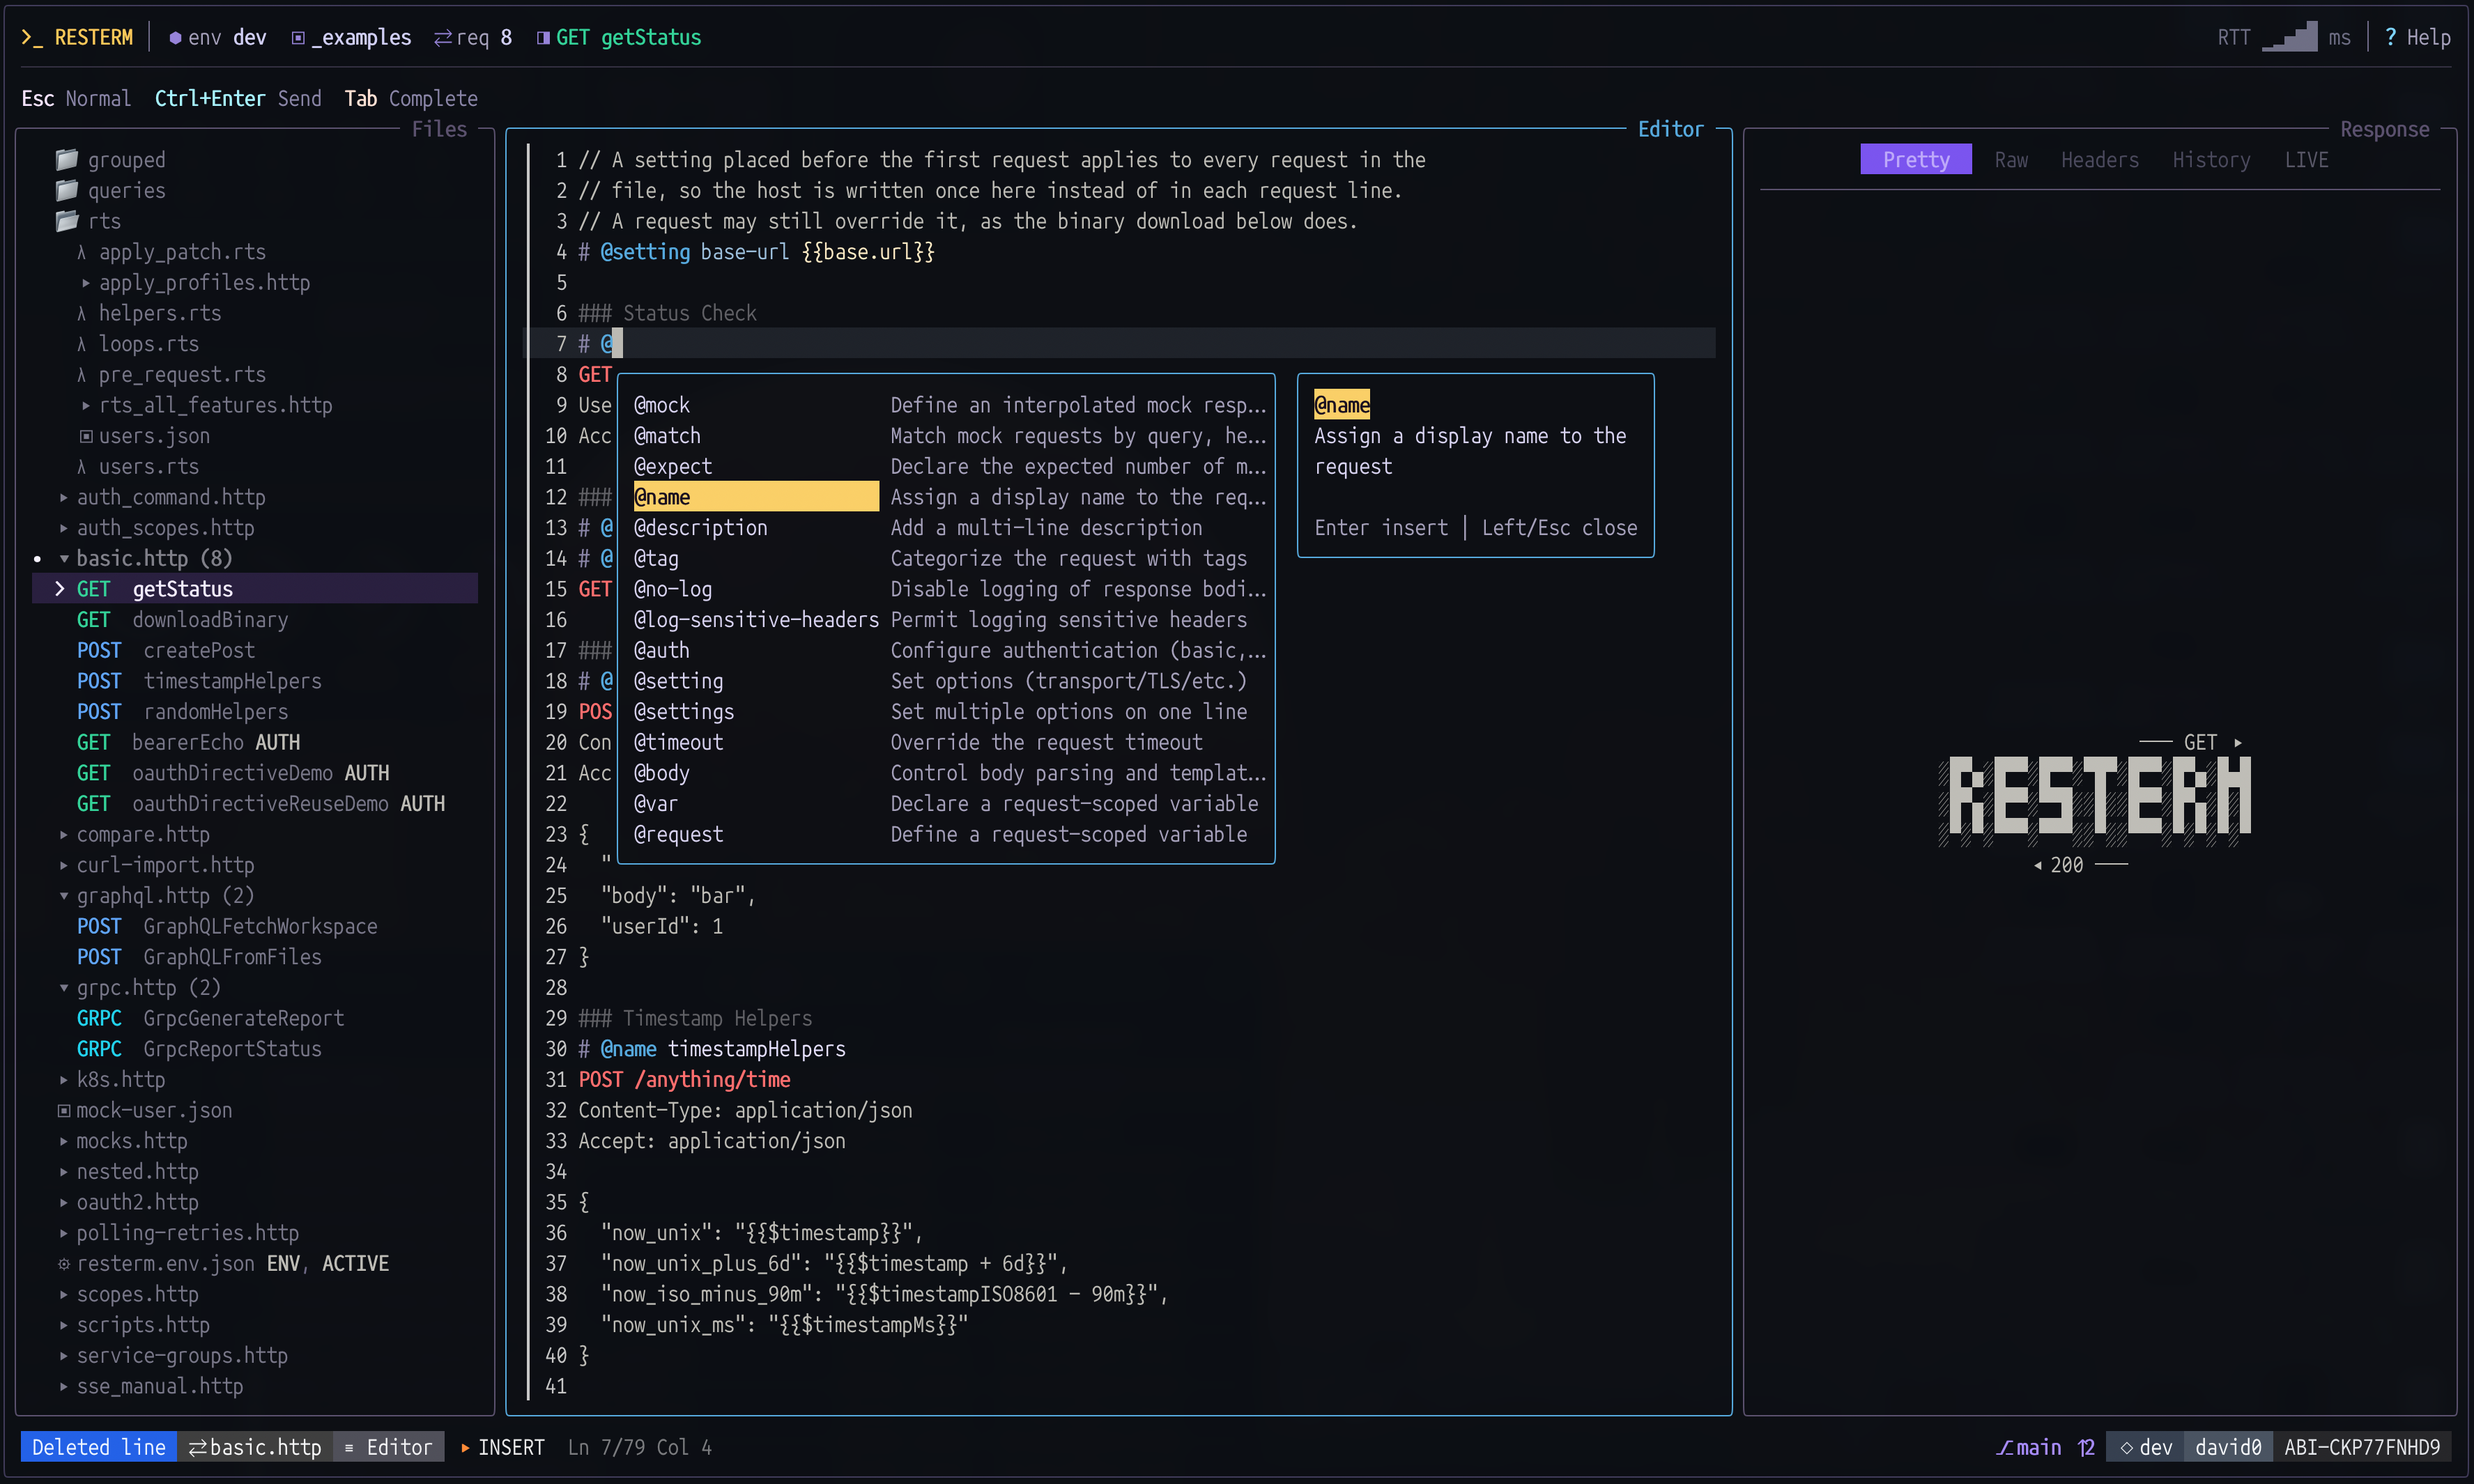
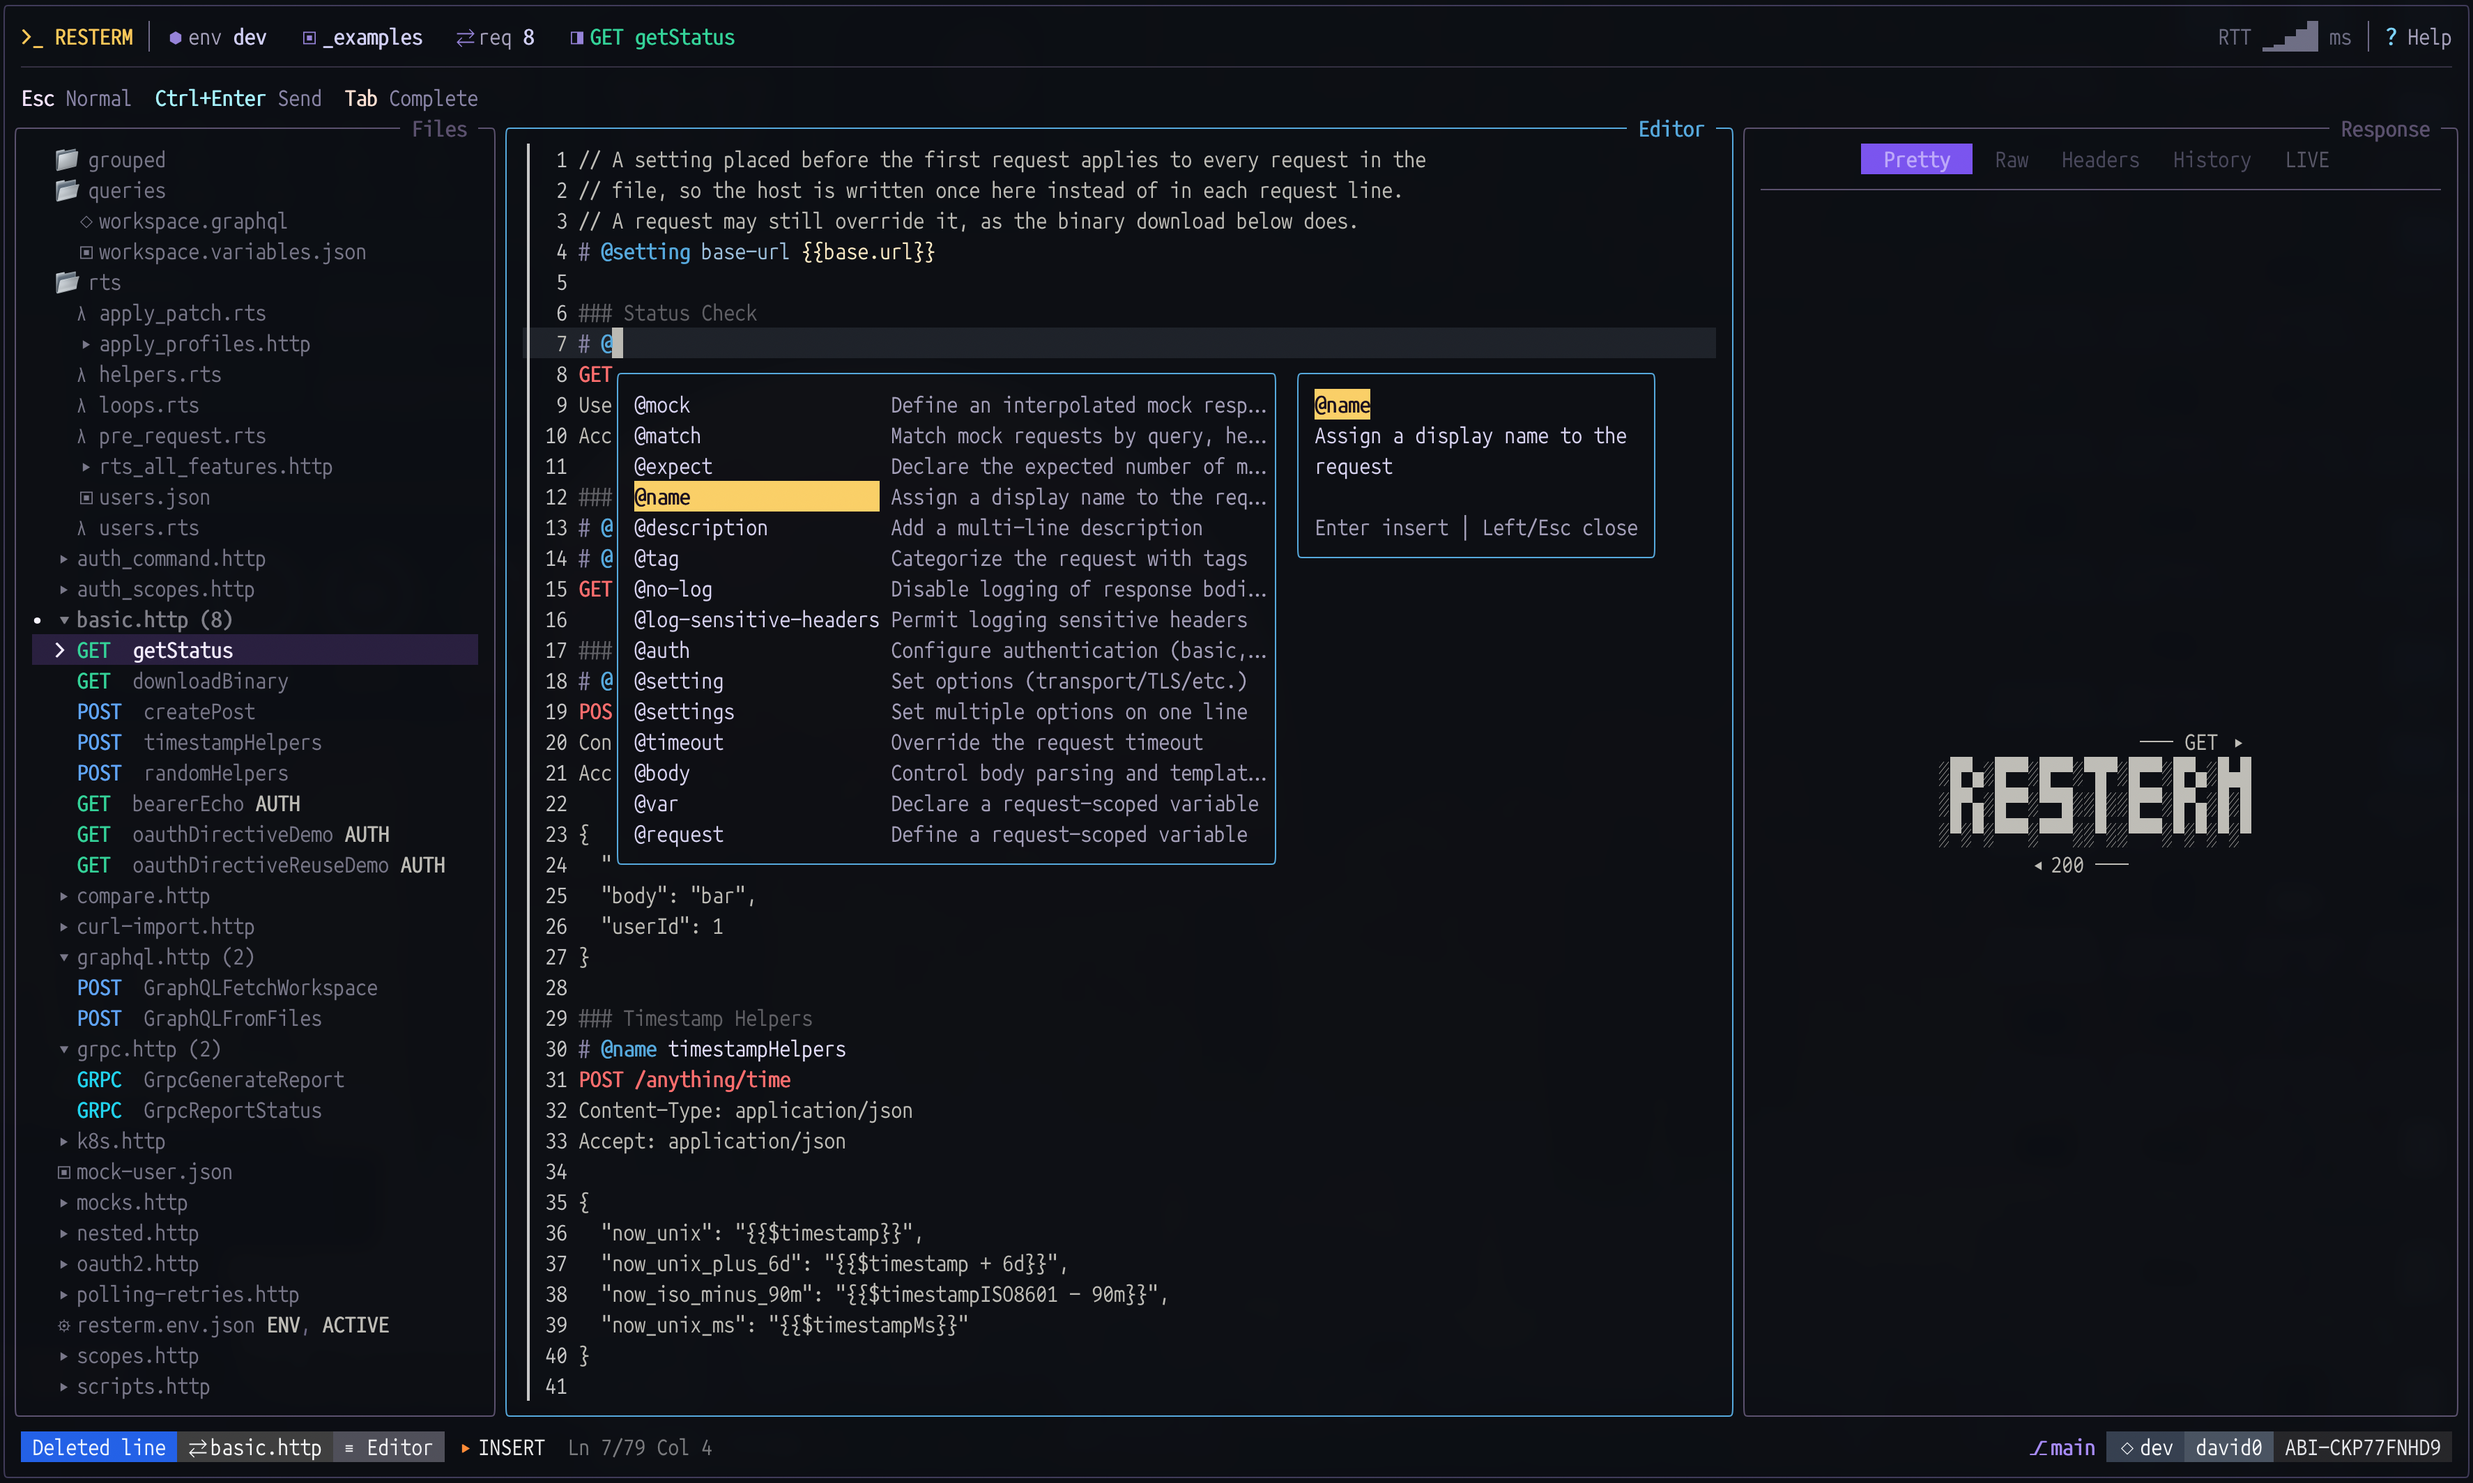
feat: 3 space headers separator

diff --git a/internal/ui/model_render.go b/internal/ui/model_render.go
@@ -40,7 +40,8 @@ const (
 const (
 	headerBrandName = ">_ RESTERM"
 	headerGroupSep  = " │ "
-	headerCellSep   = "  "
+	headerCellSep   = "   "
+	headerMetricSep = "  "
 	headerAnchorSep = " │ "
 )
 
@@ -1935,6 +1936,7 @@ type headerStyles struct {
 	fill   lipgloss.Style
 	group  string
 	sep    string
+	metric string
 	anchor string
 }
 
@@ -1968,6 +1970,7 @@ func (m Model) headerStyles() headerStyles {
 		fill:   on(lipgloss.NewStyle()),
 		group:  separator.Render(headerGroupSep),
 		sep:    separator.Render(headerCellSep),
+		metric: separator.Render(headerMetricSep),
 		anchor: separator.Render(headerAnchorSep),
 	}
 }
@@ -2105,7 +2108,7 @@ func (m Model) headerActiveCell(styles headerStyles, request string) headerCell 
 func (m Model) renderHeaderAnchors(styles headerStyles, limit int) string {
 	readings := m.renderLatencyOn(styles.bg)
 	if status := m.renderTransportStatus(styles); status != "" {
-		reading := status + styles.sep + readings
+		reading := status + styles.metric + readings
 		if lipgloss.Width(reading) <= limit {
 			readings = reading
 		}

diff --git a/internal/ui/header_render_test.go b/internal/ui/header_render_test.go
@@ -65,6 +65,7 @@ func TestHeaderRendersLayout(t *testing.T) {
 	for _, want := range []string{
 		headerBrandName + headerGroupSep + iconHeaderEnv,
 		iconHeaderEnv + " " + labelHeaderEnv + " default" + headerCellSep + iconHeaderWorkspace,
+		"201" + headerMetricSep + latLabel,
 	} {
 		if !strings.Contains(lines[0], want) {
 			t.Errorf("header is missing separator layout %q:\n%s", want, lines[0])
